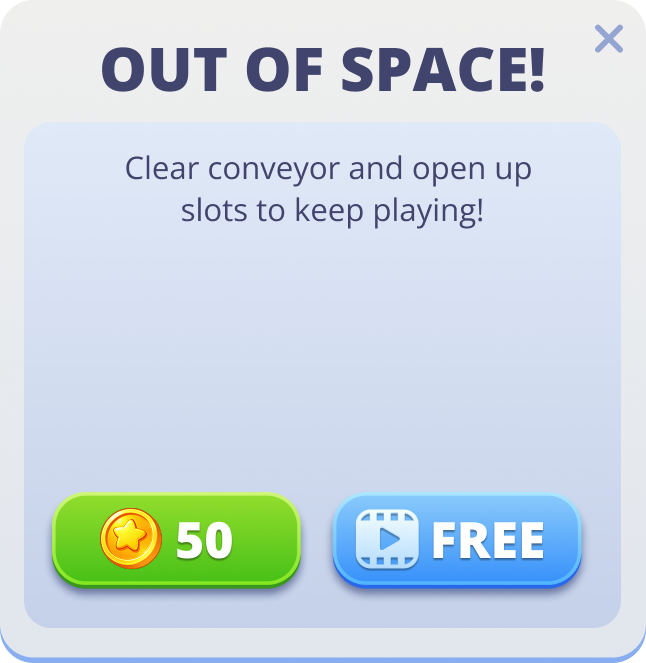
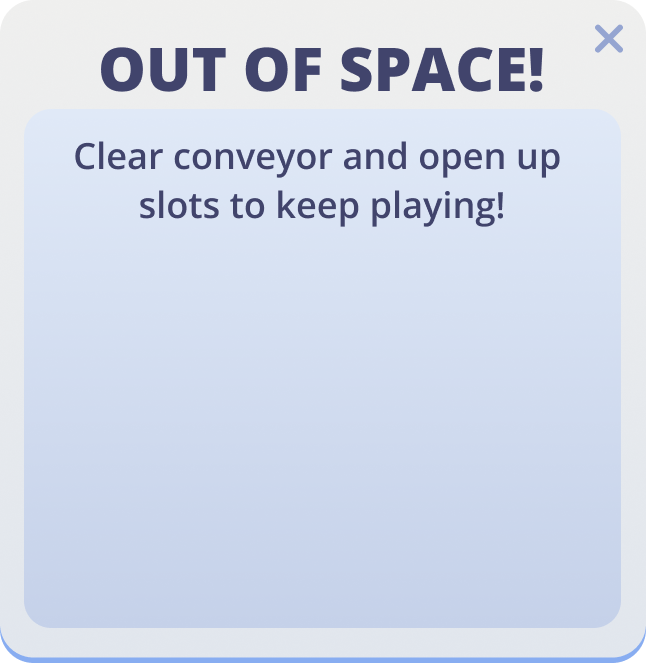
lose screen ui

diff --git a/main.js b/main.js
@@ -2320,6 +2320,12 @@ class Game {
     this.losePopupBirdsImage = new Image();
     this.losePopupBirdsImage.src = "ui/loose.png";
     this.losePopupBirdsImage.decoding = "async";
+    this.loseCoinsButtonImage = new Image();
+    this.loseCoinsButtonImage.src = "ui/Lose/coins_button.png";
+    this.loseCoinsButtonImage.decoding = "async";
+    this.loseAdsButtonImage = new Image();
+    this.loseAdsButtonImage.src = "ui/Lose/ads_button.png";
+    this.loseAdsButtonImage.decoding = "async";
     this.woodImage = new Image();
     this.woodImage.src = getBackgroundAssetPath(DEFAULT_BACKGROUND_ID, "panel");
     this.woodImage.decoding = "async";
@@ -2578,6 +2584,12 @@ class Game {
       this.invalidate(false);
     };
     this.losePopupBirdsImage.onload = () => {
+      this.invalidate(false);
+    };
+    this.loseCoinsButtonImage.onload = () => {
+      this.invalidate(false);
+    };
+    this.loseAdsButtonImage.onload = () => {
       this.invalidate(false);
     };
     this.woodImage.onload = () => {
@@ -6602,18 +6614,28 @@ class Game {
   }
 
   continueFromLoseWithOneSlot() {
+    return this.continueFromLoseWithOneSlotCore({ spendCoins: true });
+  }
+
+  continueFromLoseWithAd() {
+    return dispatchUnityRewardEvent();
+  }
+
+  continueFromLoseWithOneSlotCore({ spendCoins = true } = {}) {
     if (this.gameState !== "lose") {
       return false;
     }
-    const continueCost = this.getLoseContinueCoinsCost();
-    const currentCoins = this.getCurrentExternalCoinsCount();
-    if (currentCoins < continueCost) {
-      return false;
+    if (spendCoins) {
+      const continueCost = this.getLoseContinueCoinsCost();
+      const currentCoins = this.getCurrentExternalCoinsCount();
+      if (currentCoins < continueCost) {
+        return false;
+      }
+      const nextCoins = Math.max(0, currentCoins - continueCost);
+      this.externalCoinsCount = nextCoins;
+      pendingExternalCoinsCount = nextCoins;
+      persistExternalCoinsCount(nextCoins);
     }
-    const nextCoins = Math.max(0, currentCoins - continueCost);
-    this.externalCoinsCount = nextCoins;
-    pendingExternalCoinsCount = nextCoins;
-    persistExternalCoinsCount(nextCoins);
 
     const parkedUnits = this.units
       .filter((unit) => unit.alive && unit.state === "parked" && unit.slotIndex !== null && unit.ammo > 0)
@@ -8016,18 +8038,25 @@ class Game {
     const popup = popupRect || this.getLosePopupRect();
     const sx = popup.w / 646;
     const sy = popup.h / 663;
-    const buttonY = popup.y + popup.h - 126 * sy;
+    const buttonScale = 0.9;
+    const baseButtonW = 269 * sx;
+    const baseButtonH = 114 * sy;
+    const buttonW = baseButtonW * buttonScale;
+    const buttonH = baseButtonH * buttonScale;
+    const baseButtonY = popup.y + popup.h - 174 * sy;
+    const buttonY = baseButtonY + (baseButtonH - buttonH) * 0.5;
+    const sideInset = 40 * sx;
     const left = {
-      x: popup.x + 40 * sx,
+      x: popup.x + sideInset + (baseButtonW - buttonW) * 0.5,
       y: buttonY,
-      w: 184 * sx,
-      h: 68 * sy,
+      w: buttonW,
+      h: buttonH,
     };
     const right = {
-      x: popup.x + popup.w - 40 * sx - 184 * sx,
+      x: popup.x + popup.w - sideInset - baseButtonW + (baseButtonW - buttonW) * 0.5,
       y: buttonY,
-      w: 184 * sx,
-      h: 68 * sy,
+      w: buttonW,
+      h: buttonH,
     };
     return { left, right };
   }
@@ -8138,142 +8167,65 @@ class Game {
   }
 
   drawLoseButtons(ctx, popupX, popupY, popupW, popupH) {
-    const buttonY = popupY + popupH - 126;
-    const leftX = popupX + 40;
-    const leftW = 184;
-    const leftH = 68;
-    const rightW = 184;
-    const rightH = 68;
-    const rightX = popupX + popupW - rightW - 40;
+    const popup = { x: popupX, y: popupY, w: popupW, h: popupH };
+    const { left, right } = this.getLoseButtonRects(popup);
     const continueCost = this.getLoseContinueCoinsCost();
     const canContinueForCoins = this.canContinueFromLoseForCoins();
     const continueButtonAlpha = canContinueForCoins ? 1 : 0.46;
-
-    ctx.save();
-    ctx.globalAlpha = continueButtonAlpha;
-    ctx.shadowColor = "rgba(20, 38, 87, 0.24)";
-    ctx.shadowBlur = 10;
-    ctx.shadowOffsetY = 4;
-    const leftGrad = ctx.createLinearGradient(0, buttonY, 0, buttonY + leftH);
-    leftGrad.addColorStop(0, canContinueForCoins ? "#9ce53f" : "#9ba7a5");
-    leftGrad.addColorStop(1, canContinueForCoins ? "#53ca1c" : "#727f7b");
-    roundedRect(ctx, leftX, buttonY, leftW, leftH, 24);
-    ctx.fillStyle = leftGrad;
-    ctx.fill();
-    ctx.strokeStyle = "rgba(255,255,255,0.34)";
-    ctx.lineWidth = 2;
-    ctx.stroke();
-    ctx.restore();
-
-    const coinX = leftX + 22;
-    const coinY = buttonY + 12;
-    const coinR = 22;
-    ctx.save();
-    ctx.globalAlpha = continueButtonAlpha;
-    const coinGrad = ctx.createLinearGradient(coinX, coinY, coinX, coinY + coinR * 2);
-    coinGrad.addColorStop(0, "#ffea55");
-    coinGrad.addColorStop(1, "#f0980f");
-    ctx.fillStyle = coinGrad;
-    ctx.beginPath();
-    ctx.arc(coinX + coinR, coinY + coinR, coinR, 0, Math.PI * 2);
-    ctx.fill();
-    ctx.strokeStyle = "#ffbe2b";
-    ctx.lineWidth = 2;
-    ctx.stroke();
-    ctx.fillStyle = "#ffef65";
-    ctx.beginPath();
-    ctx.arc(coinX + coinR, coinY + coinR, coinR * 0.66, 0, Math.PI * 2);
-    ctx.fill();
-    ctx.strokeStyle = "#f0a300";
-    ctx.lineWidth = 1.5;
-    ctx.stroke();
-    ctx.restore();
-
-    ctx.save();
-    ctx.globalAlpha = continueButtonAlpha;
-    ctx.fillStyle = "#ffc700";
-    ctx.strokeStyle = "#ed8f00";
-    ctx.lineWidth = 1.5;
-    const sx = coinX + coinR;
-    const sy = coinY + coinR;
-    const rOuter = coinR * 0.42;
-    const rInner = coinR * 0.2;
-    ctx.beginPath();
-    for (let i = 0; i < 10; i++) {
-      const angle = -Math.PI / 2 + (Math.PI * 2 * i) / 10;
-      const r = i % 2 === 0 ? rOuter : rInner;
-      const px = sx + Math.cos(angle) * r;
-      const py = sy + Math.sin(angle) * r;
-      if (i === 0) {
-        ctx.moveTo(px, py);
+    const drawButton = (image, rect, alpha = 1, fallbackTop = "#7bcfff", fallbackBottom = "#4a95ef") => {
+      ctx.save();
+      ctx.globalAlpha = alpha;
+      ctx.shadowColor = "rgba(20, 38, 87, 0.24)";
+      ctx.shadowBlur = 10;
+      ctx.shadowOffsetY = 4;
+      if (image?.complete && image.naturalWidth > 0 && image.naturalHeight > 0) {
+        ctx.imageSmoothingEnabled = true;
+        if ("imageSmoothingQuality" in ctx) {
+          ctx.imageSmoothingQuality = "high";
+        }
+        ctx.drawImage(image, rect.x, rect.y, rect.w, rect.h);
       } else {
-        ctx.lineTo(px, py);
+        const grad = ctx.createLinearGradient(0, rect.y, 0, rect.y + rect.h);
+        grad.addColorStop(0, fallbackTop);
+        grad.addColorStop(1, fallbackBottom);
+        roundedRect(ctx, rect.x, rect.y, rect.w, rect.h, Math.round(rect.h * 0.36));
+        ctx.fillStyle = grad;
+        ctx.fill();
       }
-    }
-    ctx.closePath();
-    ctx.fill();
-    ctx.stroke();
-    ctx.restore();
+      ctx.restore();
+    };
+
+    drawButton(
+      this.loseCoinsButtonImage,
+      left,
+      continueButtonAlpha,
+      canContinueForCoins ? "#9ce53f" : "#9ba7a5",
+      canContinueForCoins ? "#53ca1c" : "#727f7b"
+    );
+    drawButton(this.loseAdsButtonImage, right, 1, "#7bcfff", "#4a95ef");
 
     ctx.save();
-    ctx.font = "900 56px Arial";
+    const textAreaStartRatio = 0.46;
+    const leftFontSize = Math.max(16, Math.round(left.h * 0.3744));
+    ctx.font = `800 ${leftFontSize}px "Open Sans", Arial, sans-serif`;
     ctx.fillStyle = "#ffffff";
-    ctx.strokeStyle = canContinueForCoins ? "rgba(0, 74, 10, 0.42)" : "rgba(53, 59, 57, 0.62)";
-    ctx.lineWidth = 5;
-    ctx.textAlign = "left";
+    ctx.textAlign = "center";
     ctx.textBaseline = "middle";
     ctx.globalAlpha = continueButtonAlpha;
-    ctx.strokeText(String(continueCost), leftX + 92, buttonY + leftH * 0.53);
-    ctx.fillText(String(continueCost), leftX + 92, buttonY + leftH * 0.53);
-    ctx.restore();
-
-    ctx.save();
-    ctx.shadowColor = "rgba(20, 38, 87, 0.24)";
-    ctx.shadowBlur = 10;
-    ctx.shadowOffsetY = 4;
-    const rightGrad = ctx.createLinearGradient(0, buttonY, 0, buttonY + rightH);
-    rightGrad.addColorStop(0, "#7bcfff");
-    rightGrad.addColorStop(1, "#4a95ef");
-    roundedRect(ctx, rightX, buttonY, rightW, rightH, 24);
-    ctx.fillStyle = rightGrad;
-    ctx.fill();
-    ctx.strokeStyle = "rgba(255,255,255,0.38)";
-    ctx.lineWidth = 2;
-    ctx.stroke();
-    ctx.restore();
-
-    const filmX = rightX + 20;
-    const filmY = buttonY + 12;
-    const filmW = 52;
-    const filmH = 44;
-    ctx.save();
-    const filmGrad = ctx.createLinearGradient(filmX, filmY, filmX, filmY + filmH);
-    filmGrad.addColorStop(0, "#d7f0ff");
-    filmGrad.addColorStop(1, "#75b6ff");
-    roundedRect(ctx, filmX, filmY, filmW, filmH, 12);
-    ctx.fillStyle = filmGrad;
-    ctx.fill();
-    ctx.strokeStyle = "rgba(31, 95, 184, 0.8)";
-    ctx.lineWidth = 2;
-    ctx.stroke();
-    ctx.fillStyle = "#4f8fe0";
-    ctx.beginPath();
-    ctx.moveTo(filmX + 21, filmY + 12);
-    ctx.lineTo(filmX + 21, filmY + 32);
-    ctx.lineTo(filmX + 38, filmY + 22);
-    ctx.closePath();
-    ctx.fill();
+    const leftTextX = left.x + left.w * (textAreaStartRatio + (1 - textAreaStartRatio) * 0.5) - 25;
+    const leftTextY = left.y + left.h * 0.5 - 15;
+    ctx.fillText(String(continueCost), leftTextX, leftTextY);
     ctx.restore();
 
     ctx.save();
     ctx.fillStyle = "#ffffff";
-    ctx.font = "900 54px Arial";
-    ctx.strokeStyle = "rgba(15, 63, 143, 0.72)";
-    ctx.lineWidth = 5;
-    ctx.textAlign = "left";
+    const rightFontSize = Math.max(14, Math.round(right.h * 0.36));
+    ctx.font = `800 ${rightFontSize}px "Open Sans", Arial, sans-serif`;
+    ctx.textAlign = "center";
     ctx.textBaseline = "middle";
-    ctx.strokeText("FREE", rightX + 84, buttonY + rightH * 0.53);
-    ctx.fillText("FREE", rightX + 84, buttonY + rightH * 0.53);
+    const rightTextX = right.x + right.w * (textAreaStartRatio + (1 - textAreaStartRatio) * 0.5) - 25;
+    const rightTextY = right.y + right.h * 0.5 - 15;
+    ctx.fillText("FREE", rightTextX, rightTextY);
     ctx.restore();
   }
 
@@ -8321,6 +8273,7 @@ class Game {
       }
       ctx.drawImage(this.losePopupImage, drawRect.x, drawRect.y, drawRect.w, drawRect.h);
       this.drawLoseBirdRow(ctx, drawRect.x, drawRect.y, drawRect.w, drawRect.h, fade);
+      this.drawLoseButtons(ctx, drawRect.x, drawRect.y, drawRect.w, drawRect.h);
       ctx.restore();
       return;
     }
@@ -8589,7 +8542,8 @@ class Game {
     if (this.gameState === "lose") {
       const overClose = isInsideRect(x, y, this.loseCloseRect);
       const overContinue = this.canContinueFromLoseForCoins() && isInsideRect(x, y, this.loseContinueRect);
-      this.canvas.style.cursor = overClose || overContinue ? "pointer" : "default";
+      const overFree = isInsideRect(x, y, this.loseFreeRect);
+      this.canvas.style.cursor = overClose || overContinue || overFree ? "pointer" : "default";
       return;
     }
     if (this.gameState === "victory") {
@@ -8638,13 +8592,17 @@ class Game {
     }
     if (this.gameState === "lose") {
       if (isInsideRect(x, y, this.loseCloseRect)) {
-        this.restart();
+        dispatchUnityCloseEvent(this);
       } else if (isInsideRect(x, y, this.loseContinueRect)) {
         if (!this.canContinueFromLoseForCoins()) {
           this.playSound("cant_select");
           return;
         }
         this.continueFromLoseWithOneSlot();
+      } else if (isInsideRect(x, y, this.loseFreeRect)) {
+        if (!this.continueFromLoseWithAd()) {
+          this.playSound("cant_select");
+        }
       }
       return;
     }
@@ -10304,6 +10262,18 @@ function dispatchUnityCloseEvent(gameInstance) {
   }
 }
 
+function dispatchUnityRewardEvent() {
+  if (typeof window === "undefined") {
+    return false;
+  }
+  try {
+    window.location.href = "uniwebview://reward";
+    return true;
+  } catch {
+    return false;
+  }
+}
+
 if (typeof window !== "undefined") {
   const applyExternalTimeOutCoinsCost = (timeOutCoinsCost) => {
     pendingExternalTimeOutCoinsCost = timeOutCoinsCost;
@@ -10343,6 +10313,7 @@ if (typeof window !== "undefined") {
   };
   window.setTimeOutCoinsCost = applyExternalTimeOutCoinsCost;
   window.setTimeoutCoinsCost = applyExternalTimeOutCoinsCost;
+  window.rewardResult = () => false;
 }
 
 async function bootstrapGame() {
@@ -10448,6 +10419,13 @@ async function bootstrapGame() {
   };
   window.setTimeOutCoinsCost = applyExternalTimeOutCoinsCost;
   window.setTimeoutCoinsCost = applyExternalTimeOutCoinsCost;
+  window.rewardResult = (result) => {
+    const normalized = String(result ?? "").trim().toLowerCase();
+    if (normalized !== "true") {
+      return false;
+    }
+    return game.continueFromLoseWithOneSlotCore({ spendCoins: false });
+  };
   window.advanceTime = (ms) => game.advanceTime(ms);
   window.render_game_to_text = () => game.renderGameToText();
   window.debug6 = () => game.triggerDebug6();

diff --git a/index.html b/index.html
@@ -7,6 +7,7 @@
   <link rel="preconnect" href="https://fonts.googleapis.com">
   <link rel="preconnect" href="https://fonts.gstatic.com" crossorigin>
   <link href="https://fonts.googleapis.com/css2?family=Baloo+2:wght@700;800&display=swap" rel="stylesheet">
+  <link href="https://fonts.googleapis.com/css2?family=Open+Sans:wght@800&display=swap" rel="stylesheet">
   <link rel="stylesheet" href="style.css">
 </head>
 <body>
@@ -333,6 +334,6 @@
   <script src="game-data/levels/level-2.js?v=20260401-2"></script>
   <script src="game-data/levels/index.js?v=20260401-1"></script>
   <script src="sound-manager.js?v=20260408-1"></script>
-  <script src="main.js?v=20260408-1"></script>
+  <script src="main.js?v=20260409-1"></script>
 </body>
 </html>
